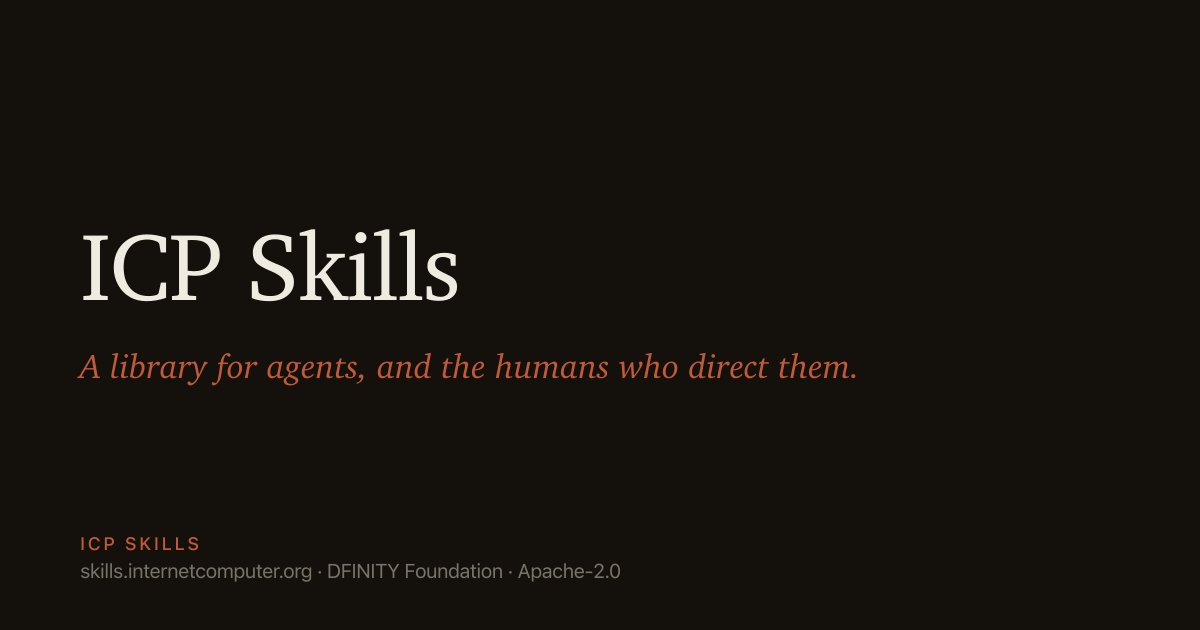
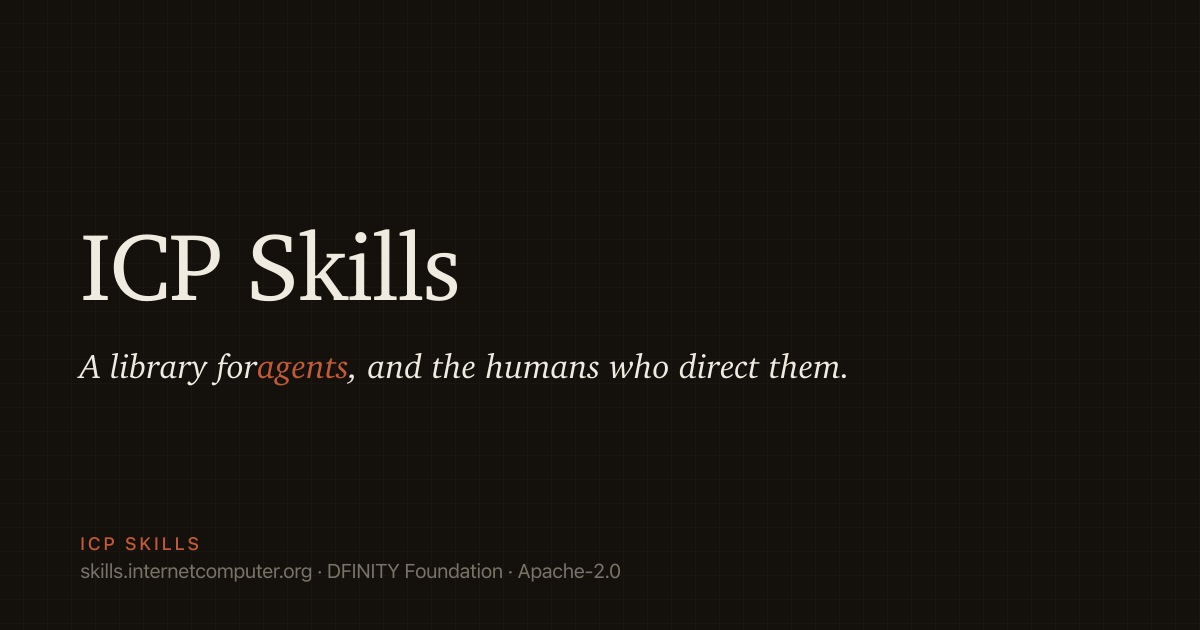
feat: add hero grid paper texture and fix accent misuse in OG image (#187)
Applies the brand's grid paper overlay to the hero section. The hero is
now full-width with a positioned overlay; content sits above it in a
.hero-inner wrapper.

Fixes the OG image subtitle: the full sentence was incorrectly in accent
color. Per brand guidelines, accent is for single words or short phrases
only. Subtitle is now bone (#f0ebe0) with only "agents" in accent via
tspan. Also adds the grid paper texture to the OG image background.
PNG regenerated from updated SVG.

Changed region(s): [[0.0617, 0.5429, 0.7092, 0.6333]]

diff --git a/public/styles.css b/public/styles.css
@@ -17,6 +17,8 @@
   --accent-dim: rgba(168, 72, 43, 0.10);
   --code-bg: #efe8da;
   --code-fg: #1a1a1a;
+  --grid-line: rgba(26, 26, 26, 0.04);  /* hero grid paper texture */
+  --grid-tile: 24px;
 
   --serif: "Newsreader", Charter, Georgia, Cambria, "Times New Roman", serif;
   --sans: "Inter", system-ui, -apple-system, "Segoe UI", "Helvetica Neue", Arial, sans-serif;
@@ -49,6 +51,7 @@
   --accent-dim: rgba(194, 90, 55, 0.16);
   --code-bg: #1b1812;
   --code-fg: #f0ebe0;
+  --grid-line: rgba(240, 235, 224, 0.05);
 }
 
 * { box-sizing: border-box; }
@@ -144,8 +147,21 @@ h4 { font-size: 1.05rem; }
 .site-footer a:hover { color: var(--accent); border-color: var(--accent); }
 .machine-links { white-space: normal; }
 
+/* ---------- Grid paper overlay ---------- */
+.grid-paper-overlay {
+  position: absolute; inset: 0; pointer-events: none; z-index: 0;
+  opacity: 0.8;
+  background-image:
+    linear-gradient(90deg, var(--grid-line) 1px, transparent 1px),
+    linear-gradient(var(--grid-line) 1px, transparent 1px);
+  background-size: var(--grid-tile) var(--grid-tile);
+  background-position: -1px -1px;
+  background-repeat: repeat;
+}
+
 /* ---------- Home: hero ---------- */
-.hero { padding: 5rem 0 3rem; max-width: 52rem; }
+.hero { padding: 5rem 0 3rem; position: relative; overflow: hidden; }
+.hero-inner { max-width: 52rem; position: relative; z-index: 1; }
 .hero .eyebrow {
   font-size: 0.78rem; text-transform: uppercase; letter-spacing: 0.18em;
   color: var(--fg-secondary); font-weight: 500;
